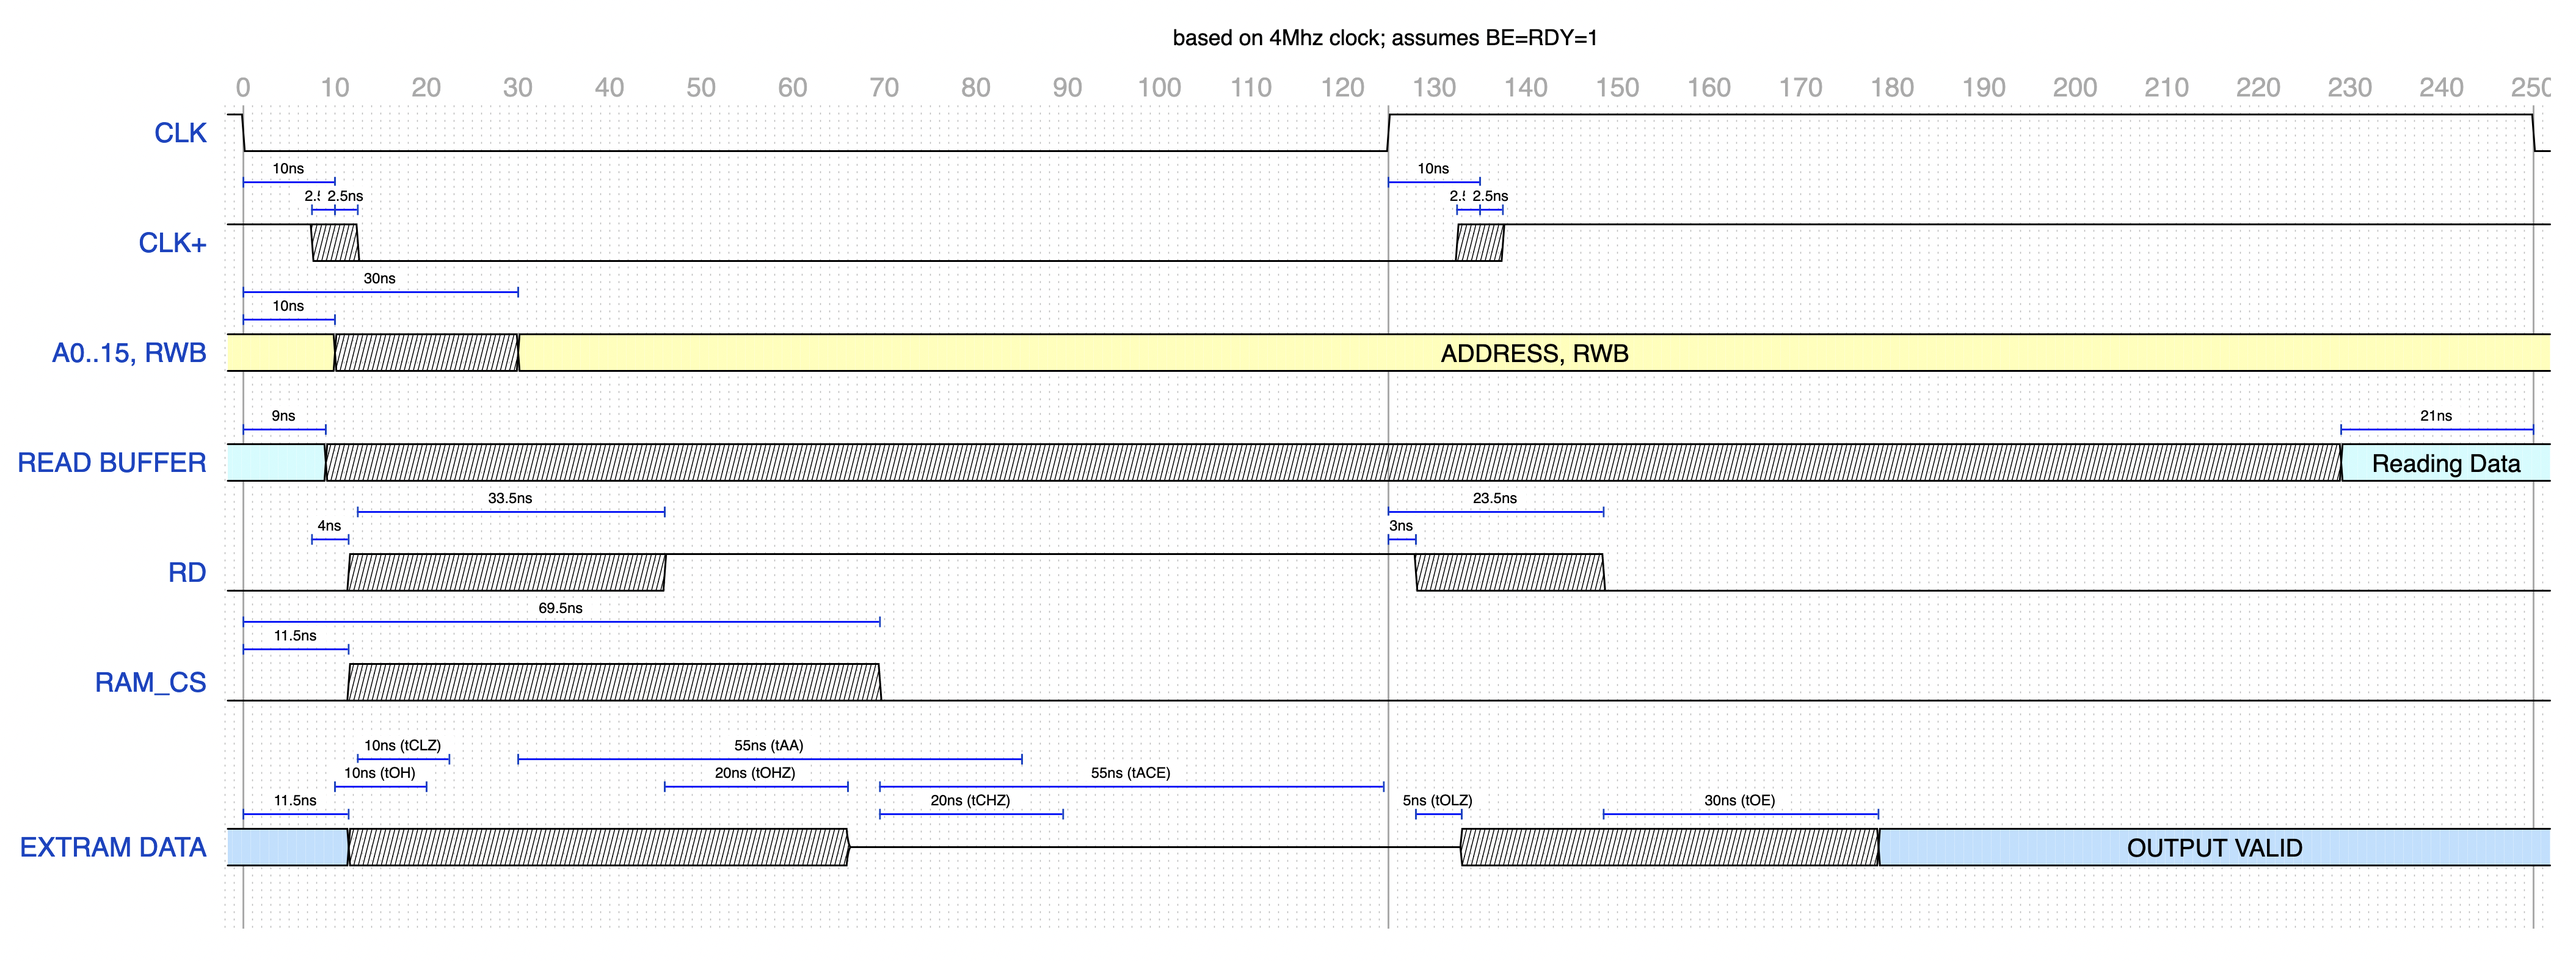
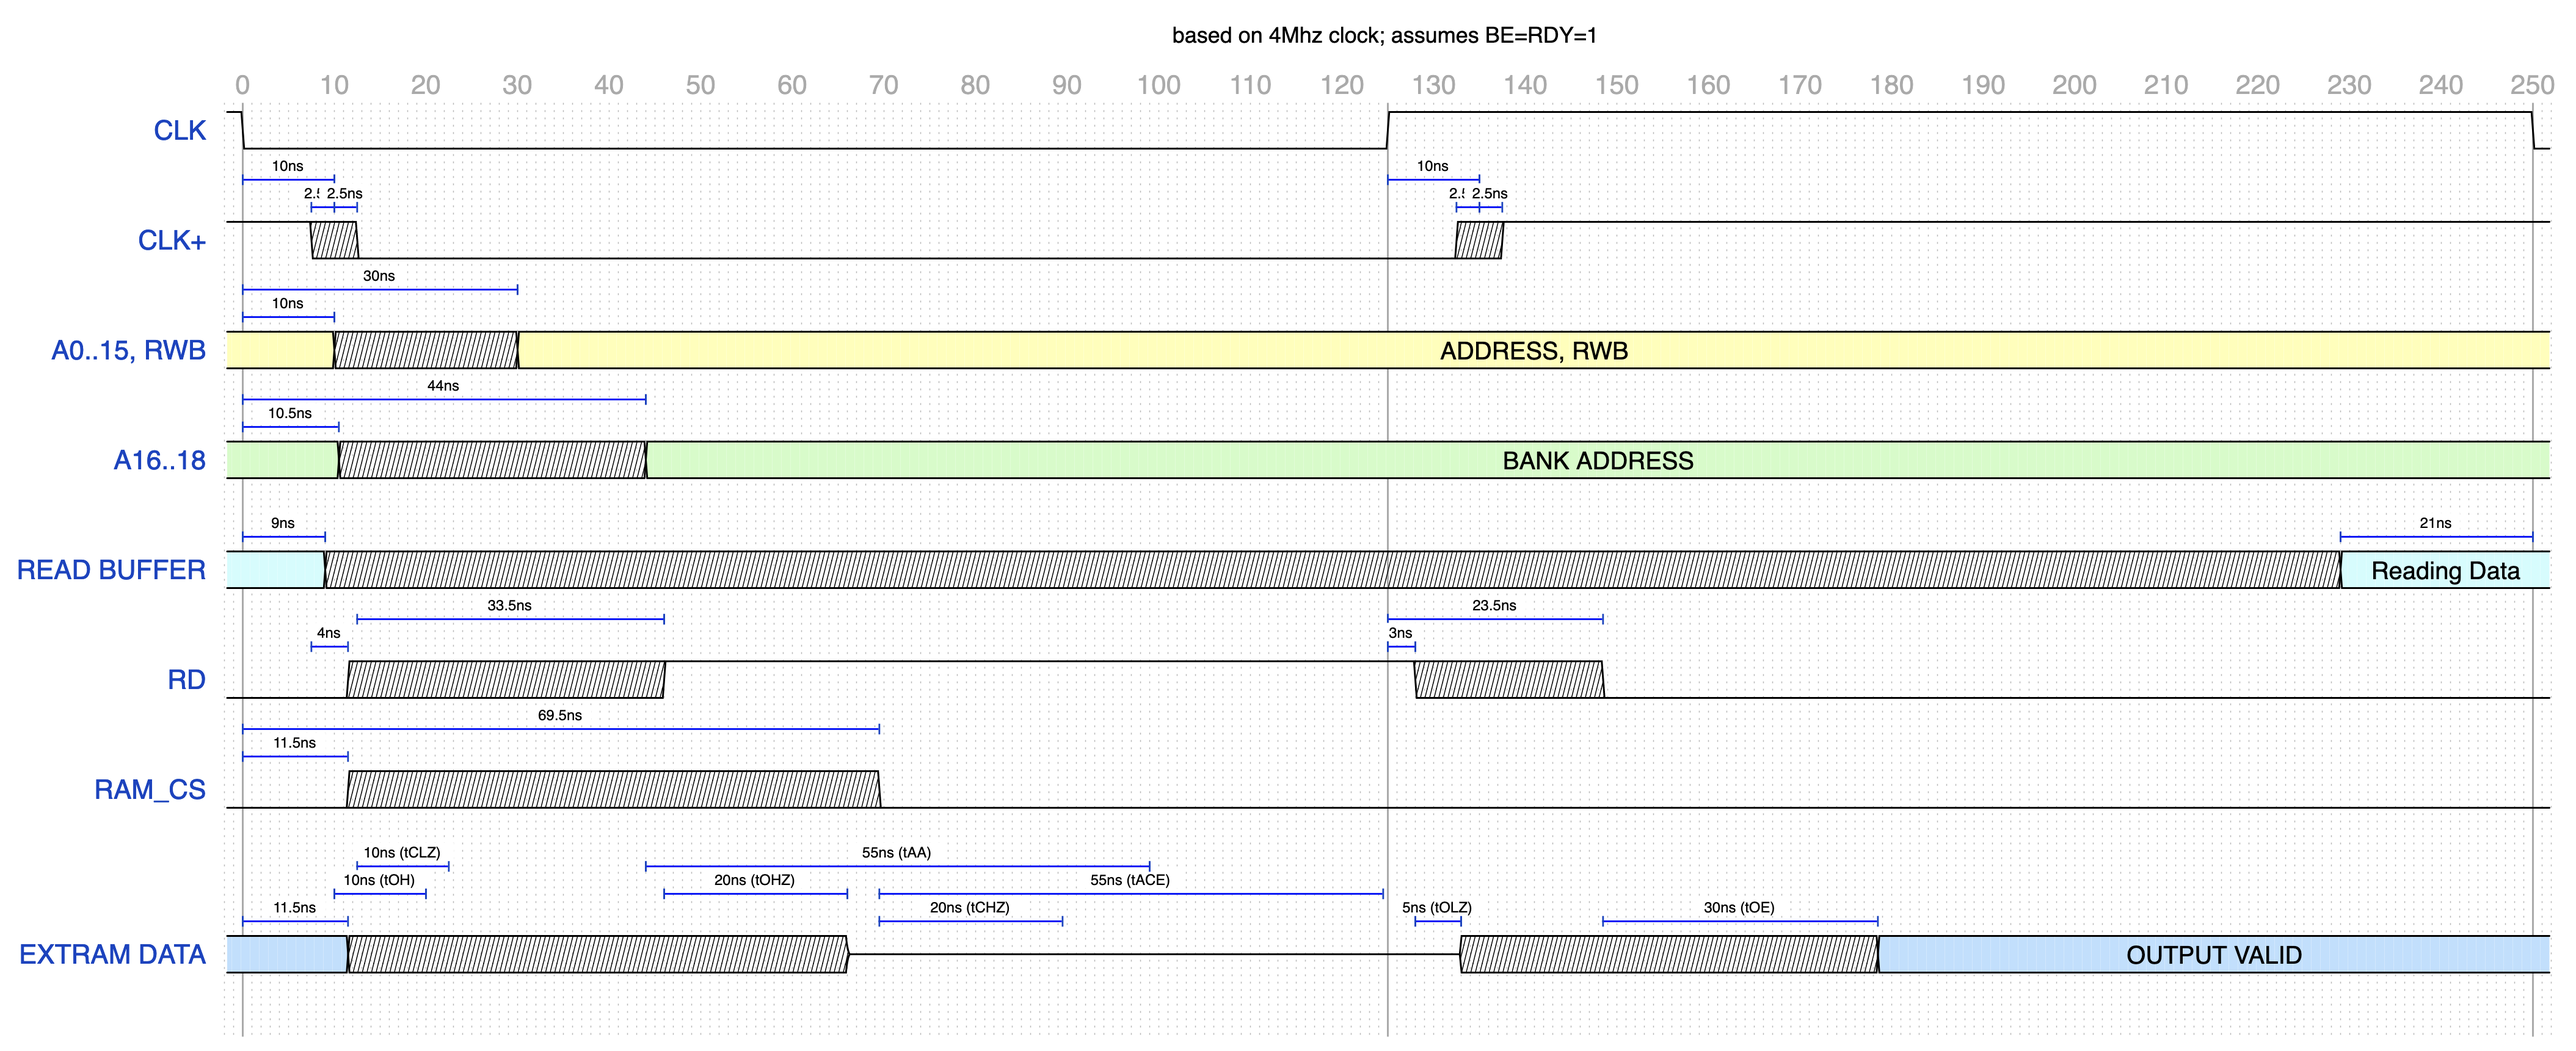
Fix timing

diff --git a/README.md b/README.md
@@ -727,19 +727,22 @@ Uses [custom fork](https://github.com/adrienkohlbecker/wavedrom)
     { name: 'CLK+', wave: '1..(7.5)x(5)0(120)x(5)1..(112.5)', phase: 0.20 },
     { nodes: ['..Ύ(30)Д', '..Б(10)Г'], phase: 0.9 },
     { name: 'A0..15, RWB', wave: '3..(10)x(20)3(220)..', data: ['', 'ADDRESS, RWB'], phase: 0.20 },
+    { nodes: ['..Ψ(44)Ω', '..Ч(10.5)Ш'], phase: 0.9 },
+    { name: 'A16..18', wave: '7..(10.5)x(33.5)7(206)..', data: ['', 'BANK ADDRESS'], phase: 0.20 },
     { nodes: ['..Φ(9)Έ(220)Ζ(21)Η'], phase: 0.9 },
     { name: 'READ BUFFER', wave: '6..(9)x(220)6(21)..', data: ['', 'Reading Data'], phase: 0.20 },
     { nodes: ['...(12.5)Ѳ(33.5)Ѵ(79)V(23.5)W', '...(7.5)Α(4)Γ(113.5)X(3)Y'], phase: 0.9 },
     { name: 'RD', wave: '0..(11.5)x(34.5)1(82)x(20.5)0(103.5)', data: ['', 'ROM'], phase: 0.20 },
     { nodes: ['..B(69.5)Π', '..E(11.5)F'], phase: 0.9 },
     { name: 'RAM_CS', wave: '0..(11.5)x(58)0(182.5)', data: ['', 'ROM'], phase: 0.20 },
-    { nodes: ['', '...(12.5)M(10)Σ(7.5)Ο(55)Ό'], phase: 0.9 },
+    { nodes: ['', '...(12.5)M(10)Σ(21.5)Ο(55)Ό'], phase: 0.9 },
     { nodes: ['...(10)S(10)T(26)R(20)P(3.5)Β(55)Ξ', '..G(11.5)H(58)L(20)K(38.5)Ё(5)Ж(15.5)Ν(30)Ά'], phase: 0.9 },
     { name: 'EXTRAM DATA', wave: '5..(11.5)x(54.5)z(67)x(45.5)5(73.5)', data: ['', 'OUTPUT VALID'], phase: 0.20 },
     { nodes: ['', ''], phase: 0.9 },
   ],
   edge: [
     'Б+Г 10ns', 'Ύ+Д 30ns',
+    'Ч+Ш 10.5ns', 'Ψ+Ω 44ns',
     'Φ+Έ 9ns', 'Ζ+Η 21ns',
     'B+Π 69.5ns', 'E+F 11.5ns',
     'Ѳ+Ѵ 33.5ns', 'Α+Γ 4ns', 'V+W 23.5ns', 'X+Y 3ns',
@@ -785,11 +788,13 @@ Uses [custom fork](https://github.com/adrienkohlbecker/wavedrom)
     { name: 'CLK_SRC', wave: '0..(100)x(10)1(115)x(10)0(17)', phase: 0.20 },
     { nodes: ['..Ύ(30)Д', '..Б(10)Г'], phase: 0.9 },
     { name: 'A0..15, RWB', wave: '3..(10)x(20)3(220)..', data: ['', 'ADDRESS, RWB'], phase: 0.20 },
+    { nodes: ['..Ⴄ(44)Ⴆ', '..Ⴀ(10.5)Ⴃ'], phase: 0.9 },
+    { name: 'A16..18', wave: '7..(10.5)x(33.5)7(206)..', data: ['', 'BANK ADDRESS'], phase: 0.20 },
     { nodes: ['..Φ(10.5)Έ(114.5)Ζ(44.5)Η'], phase: 0.9 },
     { name: 'WRITE BUFFER', wave: '6..(10.5)x(159)6(80.5)..', data: ['', 'Writing Data'], phase: 0.20 },
     { nodes: ['..B(69.5)Π', '..E(11.5)F'], phase: 0.9 },
     { name: 'RAM_CS', wave: '0..(11.5)x(58)0(182.5)', data: ['', 'ROM'], phase: 0.20 },
-    { nodes: ['...(30)U(55)V', '...(30)Ο(50)Ό'], phase: 0.9 },
+    { nodes: ['...(44)U(55)V', '...(44)Ο(50)Ό'], phase: 0.9 },
     { nodes: ['...(69.5)Β(50)Ξ', '...(10)P(0)Q(93)I(0)J(30.5)M(45)N',], phase: 0.9 },
     { nodes: ['', 'Ѳ(12)Ѵ(90)Α(3)Γ(7)R(23.5)S(91.5)C(3)D(7)Ψ(17)Ω'], phase: 0.9 },
     { name: 'WR', wave: 'x..(10)1(93)x(30.5)0(94.5)x(24)', data: ['', 'ROM'], phase: 0.20 },
@@ -798,6 +803,7 @@ Uses [custom fork](https://github.com/adrienkohlbecker/wavedrom)
   ],
   edge: [
     'Б+Г 10ns', 'Ύ+Д 30ns',
+    'Ⴀ+Ⴃ 10.5ns', 'Ⴄ+Ⴆ 44ns',
     'Φ+Έ 10.5ns', 'Ζ+Η 44.5ns',
     'B+Π 69.5ns', 'E+F 11.5s',
     'Β+Ξ 50ns (tCW)', 'Ο+Ό 50ns (tAW)',
